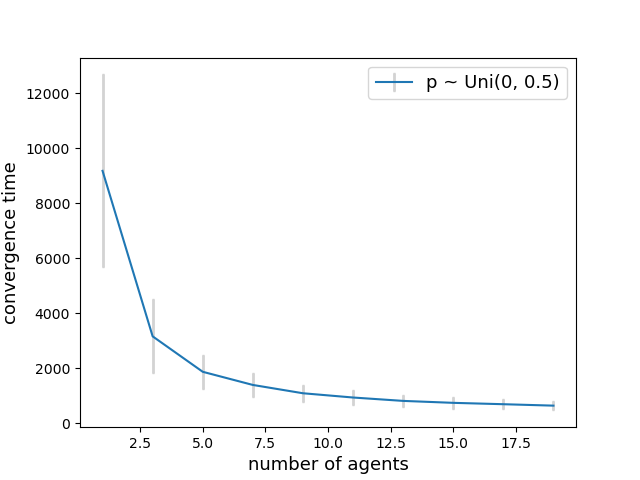
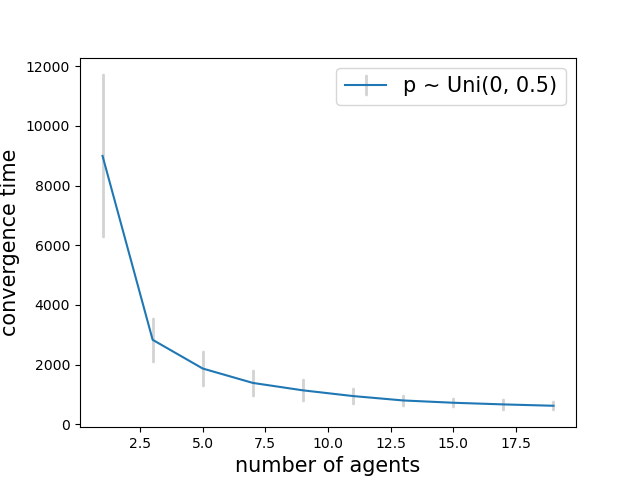
fig update

diff --git a/swarm_run.py b/swarm_run.py
@@ -5,7 +5,7 @@ import matplotlib.pyplot as plt
 # simulation times
 simulation_times = 100
 # font size
-size = 13
+size = 15
 
 file_name = 'fig/'
 
